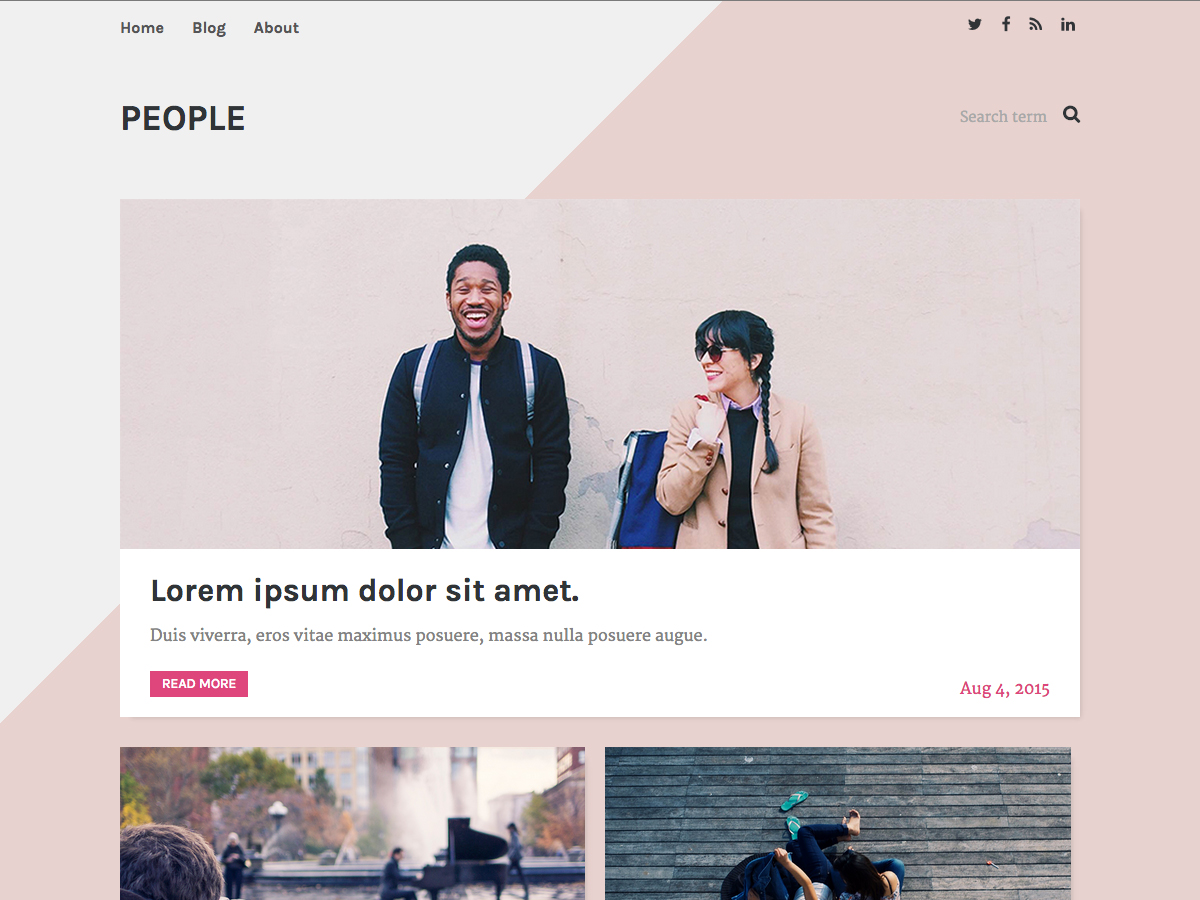
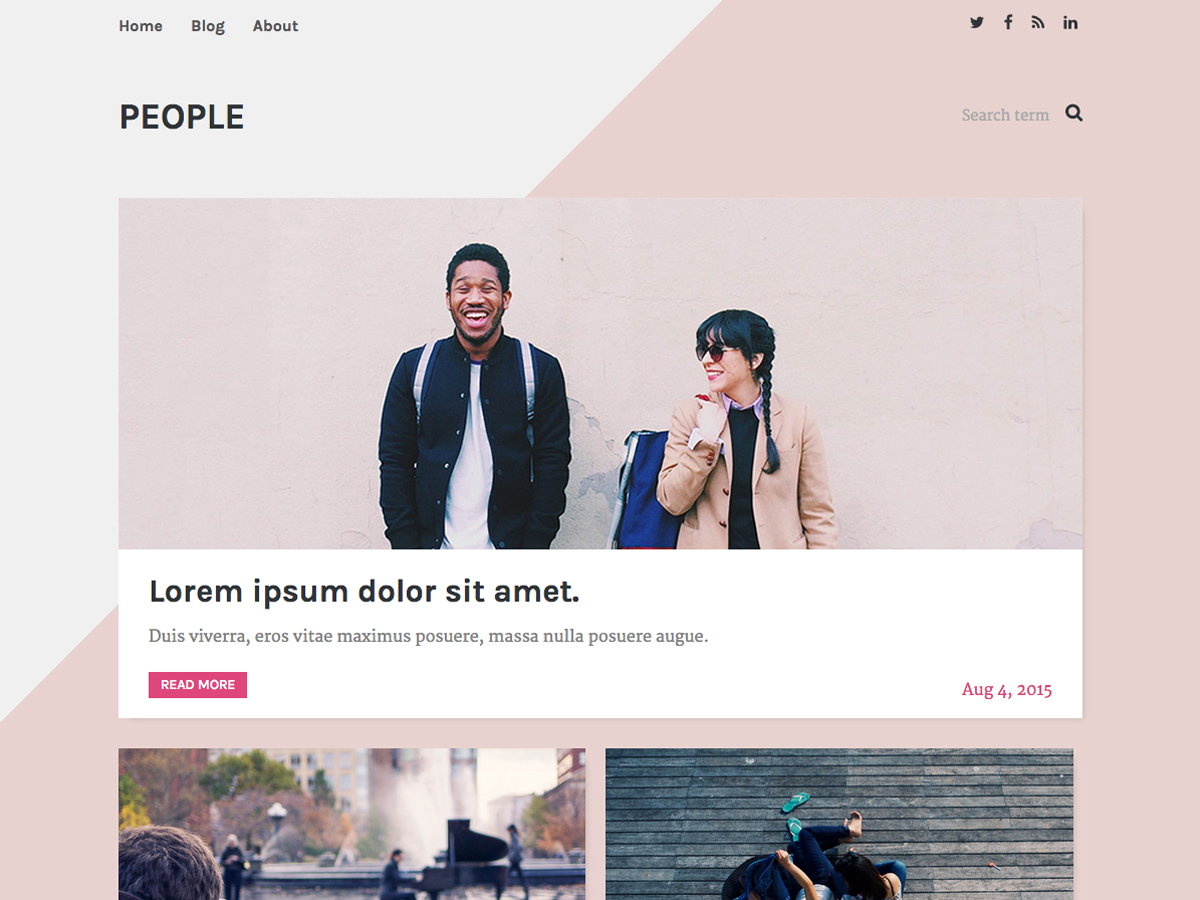
update

diff --git a/less/header.less b/less/header.less
@@ -90,6 +90,11 @@
 }
 
 .template-header-rowtwo .header-flex-item {
+    @media only screen and (min-width: 770px) {
+        -webkit-align-self: auto;
+        -ms-flex-item-align: auto;
+        align-self: auto;
+    }
     @media @tablet {
         -webkit-flex: 1 1 100%;
         -ms-flex: 1 1 100%;
